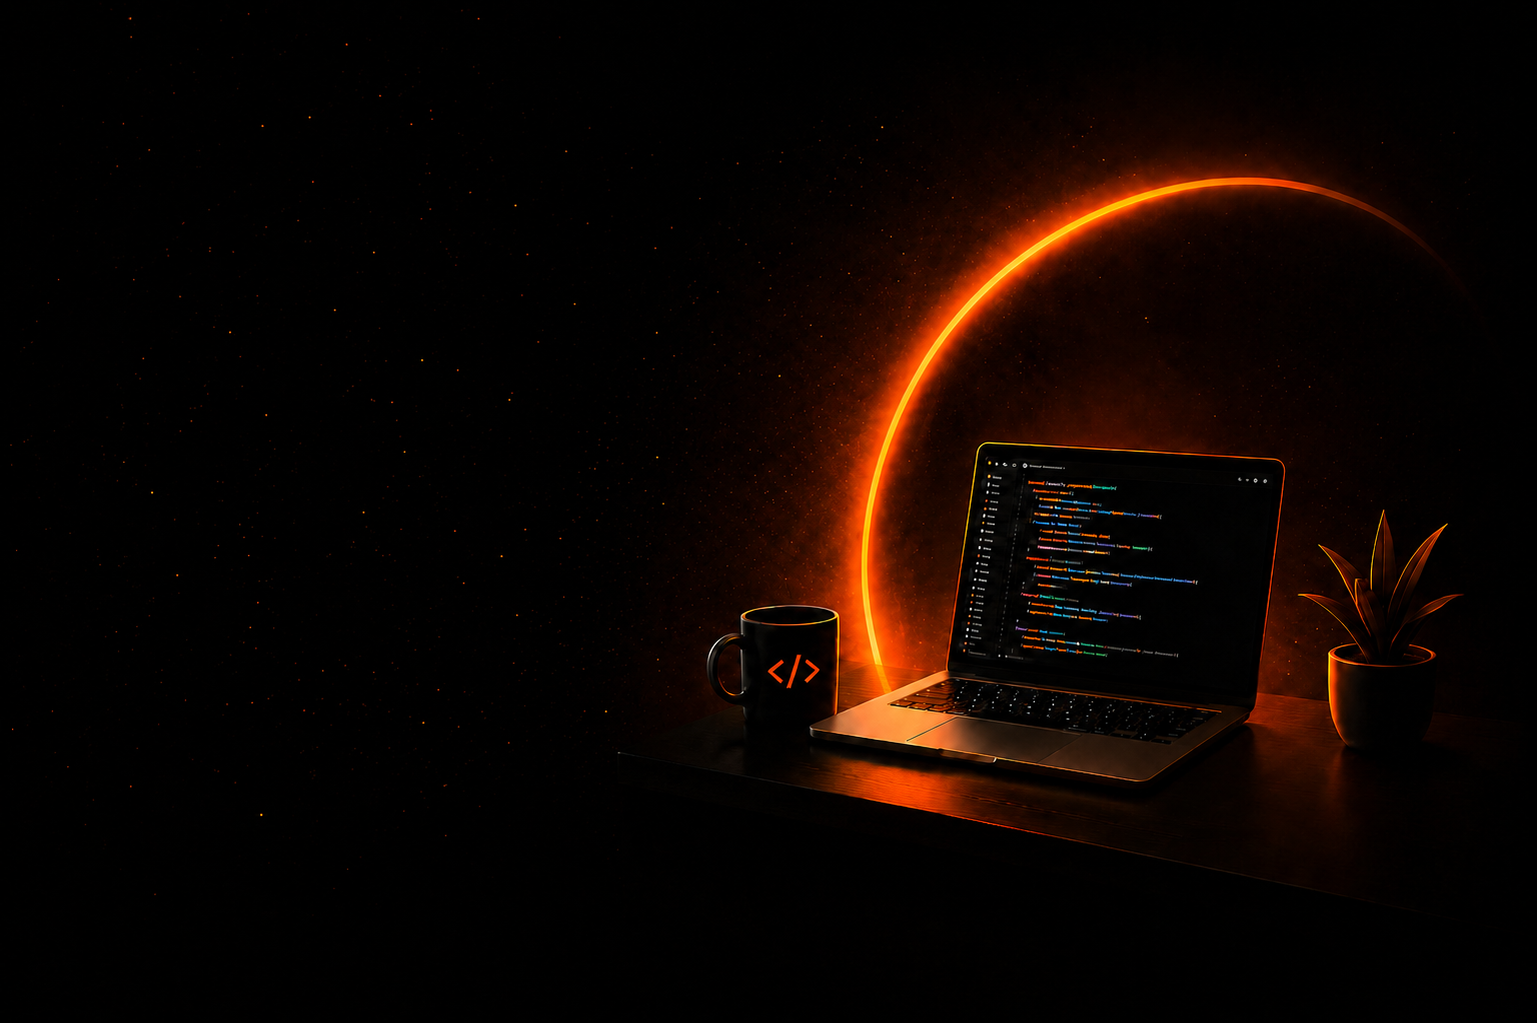
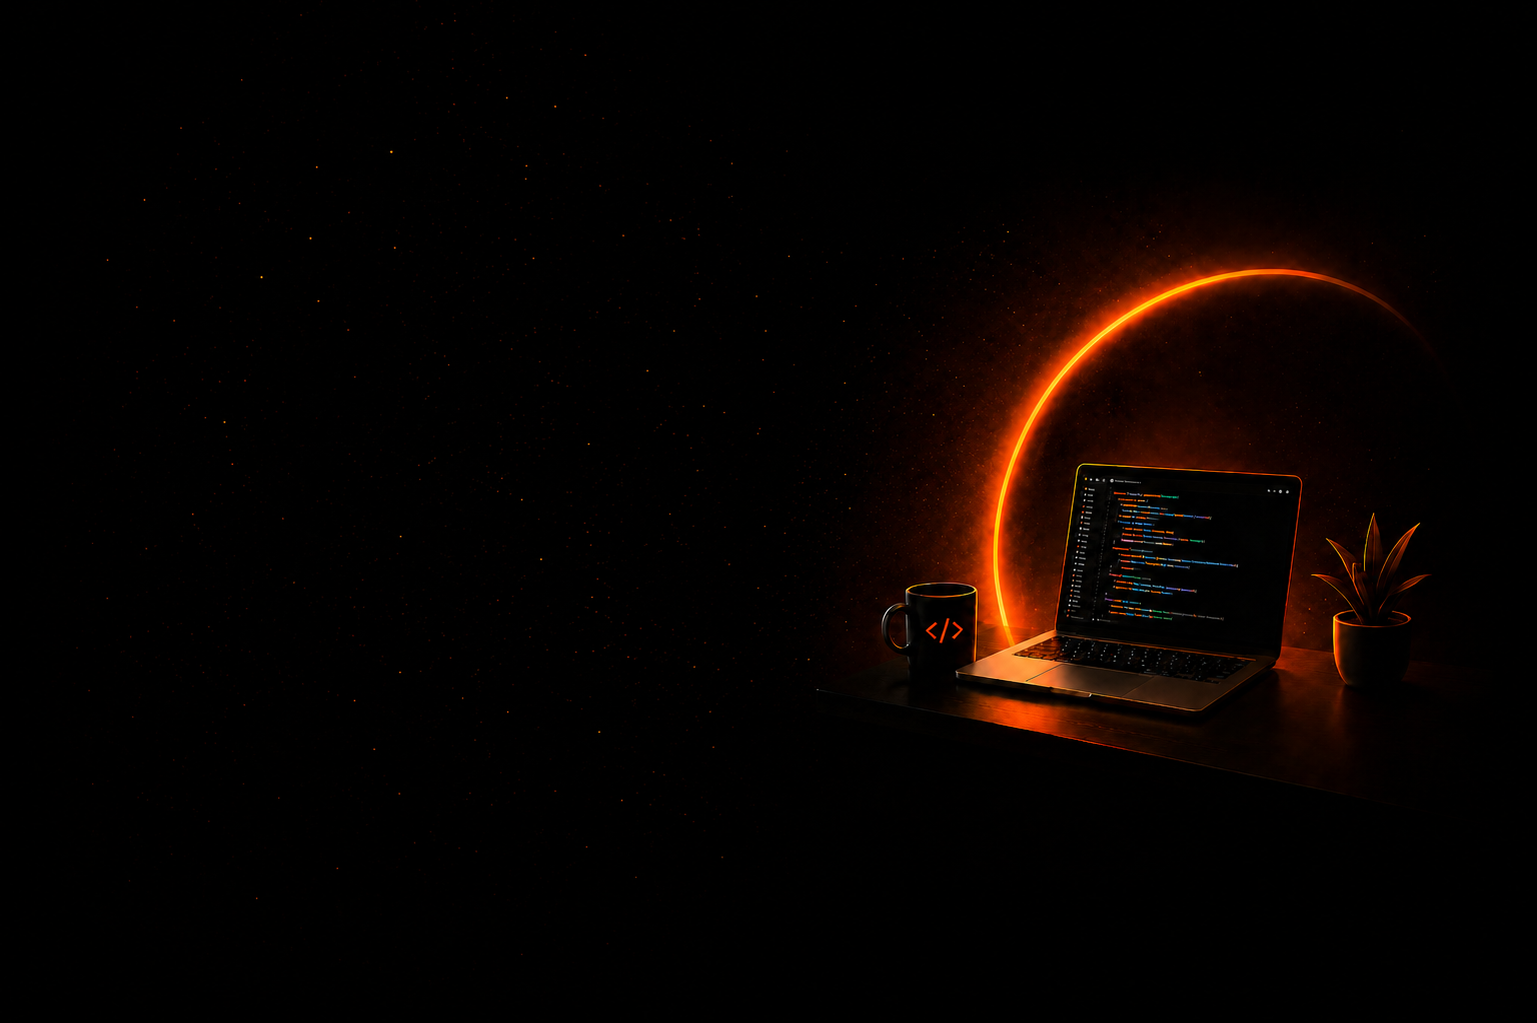
up

Changed region(s): [[0.4372, 0.1212, 0.9369, 0.8182], [0.9057, 0.2121, 0.9369, 0.2424]]

diff --git a/src/app/page.tsx b/src/app/page.tsx
@@ -1,27 +1,74 @@
+import { ArrowRight, Send } from 'lucide-react';
+import { FaReact, FaNodeJs, FaDocker, FaDatabase } from 'react-icons/fa';
+import { SiNextdotjs, SiTypescript } from 'react-icons/si';
+
 export default function Home() {
   return (
     <div className="relative h-full flex items-center justify-center overflow-hidden">
-      {/* Imagen de fondo */}
+      {/* Fondo */}
       <img
         src="/fondoDePantalla.png"
         alt=""
         className="absolute inset-0 w-full h-full object-cover -z-10"
       />
 
-      {/* Círculo de Neón de Fondo (Glow Effect) */}
-      <div className="absolute top-1/4 right-0 w-[500px] h-[500px] bg-purple-600/20 rounded-full blur-[120px] pointer-events-none" />
-
       <div className="grid grid-cols-1 md:grid-cols-2 gap-12 px-6 max-w-6xl w-full z-10">
-        
-        {/* Columna Izquierda: Espacio vacío para futuro contenido */}
-        <div className="flex flex-col justify-center">
-          
+
+        {/* Columna Izquierda */}
+        <div className="flex flex-col justify-center gap-4 mt-16">
+
+          {/* Nombre */}
+          <div>
+            <h1 className="text-7xl text-white leading-none" style={{ fontFamily: 'var(--font-bebas)' }}>Enzo</h1>
+            <h1 className="text-7xl text-[#FF5C00] leading-none" style={{ fontFamily: 'var(--font-bebas)' }}>Fernandez</h1>
+          </div>
+
+          {/* Subtítulo */}
+          <p className="font-semibold text-xl text-white" style={{ fontFamily: 'var(--font-barlow)' }}>
+            Ingeniero en Sistemas | Desarrollador Full-Stack
+          </p>
+
+          {/* Descripción */}
+          <p className="text-gray-300 text-sm leading-relaxed max-w-md">
+            Transformo ideas en aplicaciones web modernas, escalables y eficientes. 
+            Me apasiona crear soluciones que generen impacto real a través de la tecnología.
+          </p>
+
+          {/* Botones */}
+          <div className="flex gap-4 mt-2">
+            <a href="/proyectos"
+              className="bg-[#FF5C00] hover:bg-[#e05200] text-white px-6 py-3 rounded-lg font-semibold flex items-center gap-2 transition-colors">
+              Ver mis proyectos <ArrowRight size={18} />
+            </a>
+            <a href="/contacto"
+              className="border border-white/40 hover:border-white text-white px-6 py-3 rounded-lg font-semibold flex items-center gap-2 transition-colors">
+              Contactar <Send size={16} />
+            </a>
+          </div>
+
+          {/* Tecnologías */}
+          <div className="mt-4">
+            <p className="text-gray-400 text-sm mb-3">Tecnologías principales</p>
+            <div className="flex gap-3">
+              {[
+                { icon: <FaReact size={24} className="text-[#61DAFB]" />, bg: 'bg-black/60' },
+                { icon: <SiNextdotjs size={24} className="text-white" />, bg: 'bg-white/10' },
+                { icon: <SiTypescript size={24} className="text-[#3178C6]" />, bg: 'bg-black/60' },
+                { icon: <FaNodeJs size={24} className="text-[#68A063]" />, bg: 'bg-black/60' },
+                { icon: <FaDatabase size={24} className="text-[#336791]" />, bg: 'bg-black/60' },
+                { icon: <FaDocker size={24} className="text-[#2496ED]" />, bg: 'bg-black/60' },
+              ].map((tech, i) => (
+                <div key={i} className={`w-12 h-12 rounded-xl ${tech.bg} border border-white/10 flex items-center justify-center`}>
+                  {tech.icon}
+                </div>
+              ))}
+            </div>
+          </div>
+
         </div>
 
-        {/* Columna Derecha: Espacio vacío para futuro contenido */}
-        <div className="flex items-center justify-center">
-
-        </div>
+        {/* Columna Derecha: vacía (la llena la imagen de fondo) */}
+        <div />
 
       </div>
     </div>

diff --git a/src/app/layout.tsx b/src/app/layout.tsx
@@ -1,16 +1,24 @@
 import type { Metadata } from "next";
-import { Geist, Geist_Mono } from "next/font/google";
+import { Bebas_Neue, DM_Mono, Barlow_Condensed } from "next/font/google";
 import "./globals.css";
 import Navbar from "@/components/Navbar"; // Importamos tu Navbar
 import ScrollbarProvider from '@/components/ScrollbarProvider';
 
-const geistSans = Geist({
-  variable: "--font-geist-sans",
+const bebasNeue = Bebas_Neue({
+  variable: "--font-bebas",
+  weight: "400",
   subsets: ["latin"],
 });
 
-const geistMono = Geist_Mono({
-  variable: "--font-geist-mono",
+const dmMono = DM_Mono({
+  variable: "--font-dm-mono",
+  weight: ["300", "400", "500"],
+  subsets: ["latin"],
+});
+
+const barlowCondensed = Barlow_Condensed({
+  variable: "--font-barlow",
+  weight: ["400", "600"],
   subsets: ["latin"],
 });
 
@@ -28,9 +36,9 @@ export default function RootLayout({
     // Cambiamos lang a "es"
     <html
       lang="es"
-      className={`${geistSans.variable} ${geistMono.variable} h-full antialiased`}
+      className={`${bebasNeue.variable} ${dmMono.variable} ${barlowCondensed.variable} h-full antialiased`}
     >
-      <body className="min-h-full flex flex-col">
+      <body className="min-h-full flex flex-col text-[110%]" style={{ fontFamily: 'var(--font-dm-mono)' }}>
         <Navbar /> {/* Inyectamos la navegación arriba de todo */}
         <ScrollbarProvider>
           <main className="flex-grow h-full">

diff --git a/src/components/Navbar.tsx b/src/components/Navbar.tsx
@@ -4,7 +4,7 @@ import { FaGithub, FaLinkedin } from 'react-icons/fa';
 
 export default function Navbar() {
     return (
-        <nav className="sticky top-0 z-50 w-full bg-[#0a0a0a]/90 backdrop-blur-md">
+        <nav className="fixed top-0 z-50 w-full bg-transparent">
             <div className="w-full px-8 md:px-16 h-[72px] flex items-center justify-between relative">
 
                 {/* Logo */}